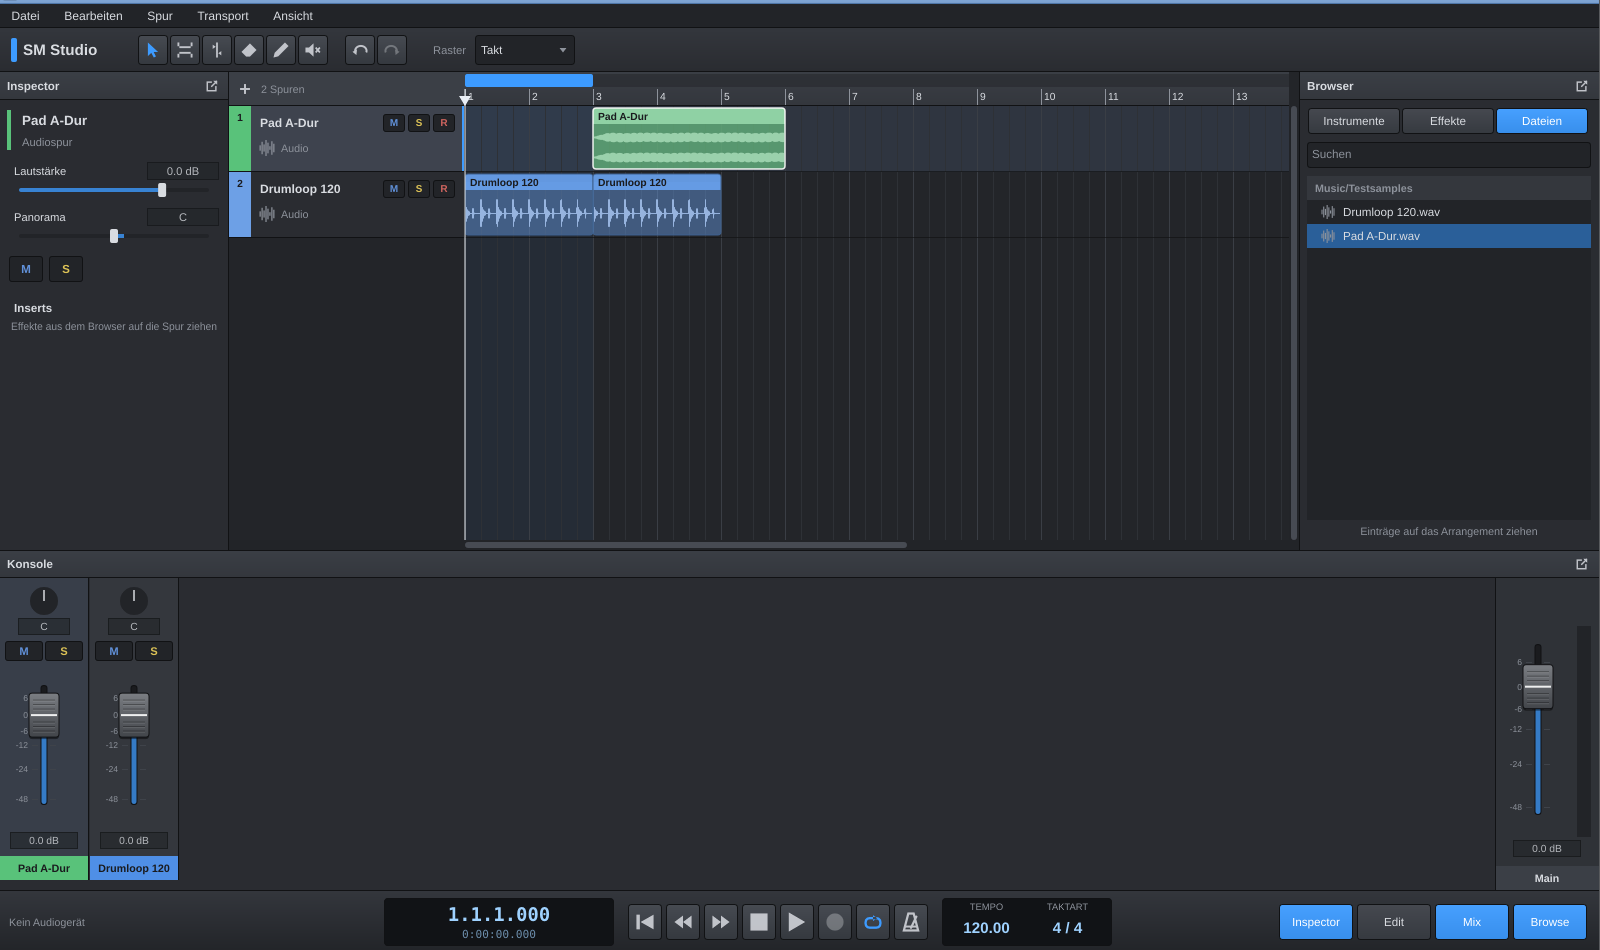
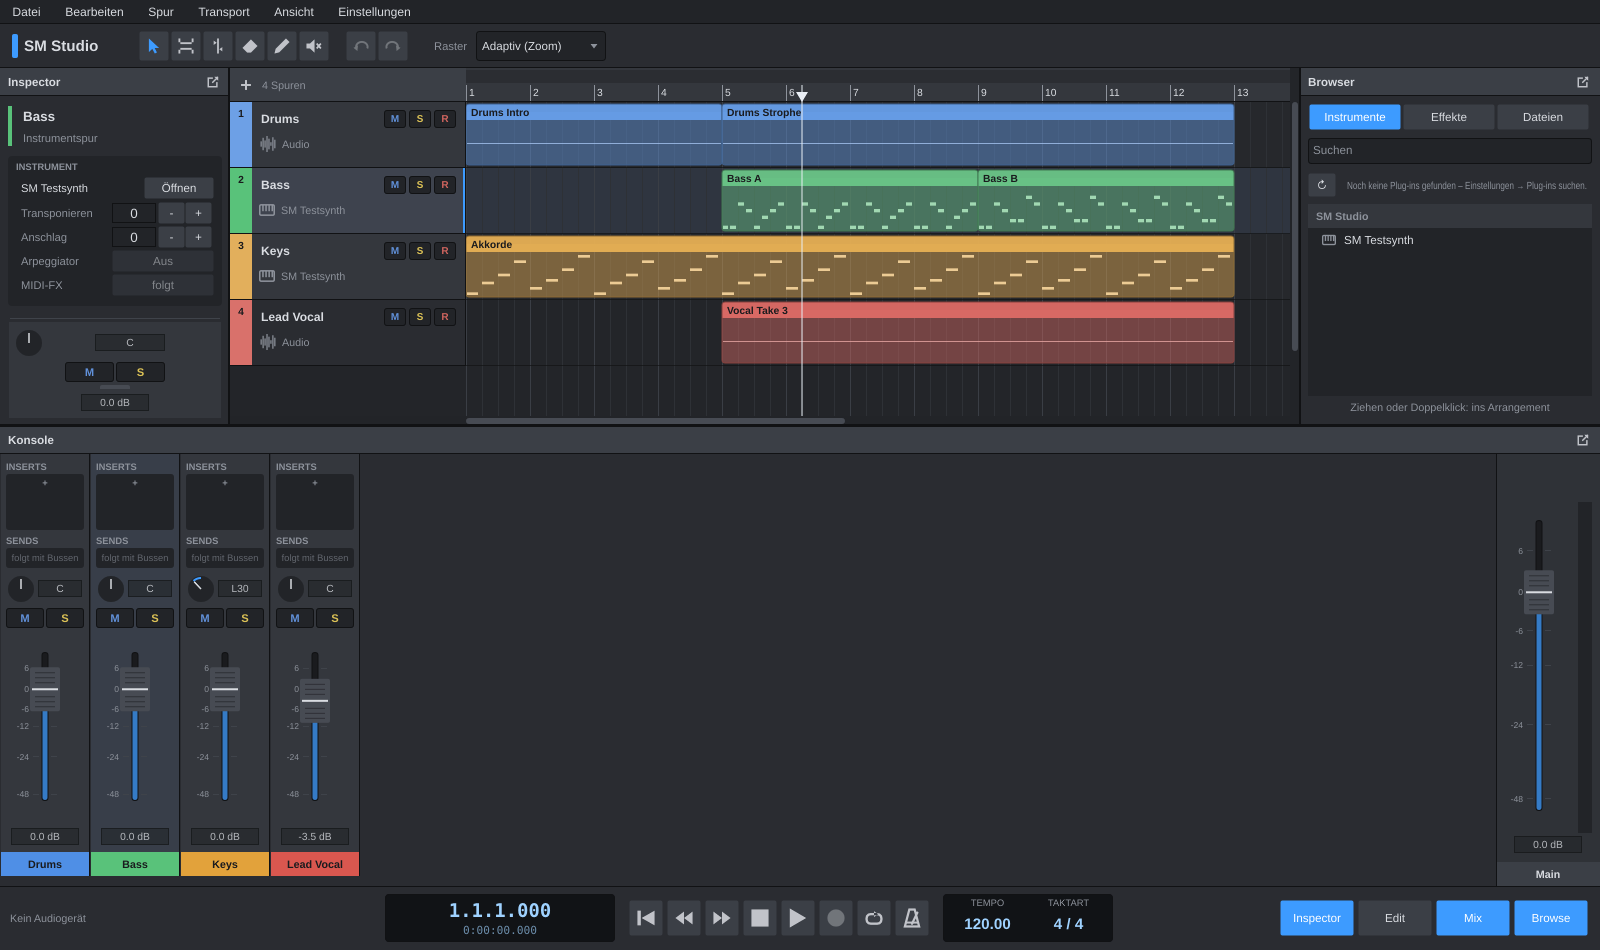
Flaches Design: alle Farbverläufe und Schatten entfernt
- Knöpfe, Icon-Knöpfe, Panel-Köpfe, Werkzeug- und Transportleiste, Lineal:
  einfarbige Flächen ohne Verlauf/Rahmen
- Fader-Kappe flach (ohne Schatten/Bevel), Pegelanzeige in flachen Zonen
  (grün/gelb/rot) statt Verlauf
- Eigene flache Reiter (Einstellungen)
- CLAUDE.md: Design-Regel „flach, keine Verläufe“

Claude-Session: https://claude.ai/code/session_01G1Snz2j6udqzPPveGnZnQZ

diff --git a/src/app/ui/Theme.cpp b/src/app/ui/Theme.cpp
@@ -387,10 +387,8 @@ void LookAndFeel::drawButtonBackground (juce::Graphics& g, juce::Button& b, cons
     else if (highlighted)
         base = base.brighter (0.12f);
 
-    g.setGradientFill (juce::ColourGradient (base.brighter (0.06f), 0, r.getY(), base.darker (0.08f), 0, r.getBottom(), false));
-    g.fillRoundedRectangle (r, 3.0f);
-    g.setColour (colours::border);
-    g.drawRoundedRectangle (r, 3.0f, 1.0f);
+    g.setColour (base); // flat, no gradient
+    g.fillRoundedRectangle (r, 2.0f);
 }
 
 void LookAndFeel::drawButtonText (juce::Graphics& g, juce::TextButton& b, bool, bool)
@@ -454,32 +452,20 @@ void LookAndFeel::drawLinearSlider (juce::Graphics& g, int x, int y, int w, int 
         auto cap = juce::Rectangle<float> (capW, faderCapHeight).withCentre ({ cx, pos });
         const bool active = s.isMouseOverOrDragging();
 
-        g.setColour (juce::Colours::black.withAlpha (0.45f));
-        g.fillRoundedRectangle (cap.translated (0.0f, 2.0f), 3.0f);
+        // flat cap (no shadow, no gradient) with thin grip lines and a centre line
+        g.setColour (active ? colours::headerLight.brighter (0.15f) : colours::headerLight);
+        g.fillRoundedRectangle (cap, 2.0f);
 
-        auto body = colours::headerLight.brighter (active ? 0.25f : 0.12f);
-        g.setGradientFill (juce::ColourGradient (body.brighter (0.25f), 0, cap.getY(),
-                                                 body.darker (0.35f), 0, cap.getBottom(), false));
-        g.fillRoundedRectangle (cap, 3.0f);
-
-        // grip ridges above and below the centre line
+        g.setColour (colours::panelDark.withAlpha (0.7f));
         for (int i = 1; i <= 3; ++i)
         {
-            const auto off = (float) i * 4.5f + 2.0f;
-            g.setColour (juce::Colours::black.withAlpha (0.35f));
-            g.fillRect (cap.getX() + 4.0f, pos - off, capW - 8.0f, 1.0f);
-            g.fillRect (cap.getX() + 4.0f, pos + off, capW - 8.0f, 1.0f);
-            g.setColour (juce::Colours::white.withAlpha (0.12f));
-            g.fillRect (cap.getX() + 4.0f, pos - off + 1.0f, capW - 8.0f, 1.0f);
-            g.fillRect (cap.getX() + 4.0f, pos + off + 1.0f, capW - 8.0f, 1.0f);
+            const auto off = (float) i * 5.0f + 2.0f;
+            g.fillRect (cap.getX() + 5.0f, pos - off, capW - 10.0f, 1.0f);
+            g.fillRect (cap.getX() + 5.0f, pos + off, capW - 10.0f, 1.0f);
         }
 
-        // centre line marks the exact value
-        g.setColour (active ? colours::accent.brighter (0.3f) : juce::Colours::white.withAlpha (0.9f));
+        g.setColour (active ? colours::accent : colours::text);
         g.fillRect (cap.getX() + 2.0f, pos - 1.0f, capW - 4.0f, 2.0f);
-
-        g.setColour (colours::border);
-        g.drawRoundedRectangle (cap, 3.0f, 1.0f);
     }
     else
     {
@@ -536,6 +522,34 @@ void LookAndFeel::drawRotarySlider (juce::Graphics& g, int x, int y, int w, int 
     g.setColour (colours::text);
     g.drawLine (juce::Line<float> (centre, centre.getPointOnCircumference (radius - 3, angle)), 1.5f);
 }
+
+int LookAndFeel::getTabButtonBestWidth (juce::TabBarButton& b, int depth)
+{
+    return juce::jmax (depth * 2, (int) juce::GlyphArrangement::getStringWidth (juce::Font (font (14.0f)), b.getButtonText()) + 28);
+}
+
+void LookAndFeel::drawTabButton (juce::TabBarButton& b, juce::Graphics& g, bool isMouseOver, bool)
+{
+    const bool active = b.isFrontTab();
+    auto r = b.getActiveArea().toFloat();
+    g.setColour (active ? colours::panel : (isMouseOver ? colours::panelLight : colours::panelDark));
+    g.fillRect (r);
+    if (active)
+    {
+        g.setColour (colours::accent);
+        g.fillRect (r.removeFromBottom (2.0f));
+    }
+    g.setColour (active ? colours::text : colours::textDim);
+    g.setFont (font (14.0f));
+    g.drawText (b.getButtonText(), b.getTextArea(), juce::Justification::centred, true);
+}
+
+void LookAndFeel::drawTabbedButtonBarBackground (juce::TabbedButtonBar&, juce::Graphics& g)
+{
+    g.fillAll (colours::panelDark);
+}
+
+void LookAndFeel::drawTabAreaBehindFrontButton (juce::TabbedButtonBar&, juce::Graphics&, int, int) {}
 
 void LookAndFeel::drawComboBox (juce::Graphics& g, int w, int h, bool, int, int, int, int, juce::ComboBox& box)
 {
@@ -623,10 +637,8 @@ void IconButton::paintButton (juce::Graphics& g, bool highlighted, bool down)
         else if (highlighted)
             base = base.brighter (0.12f);
 
-        g.setGradientFill (juce::ColourGradient (base.brighter (0.07f), 0, r.getY(), base.darker (0.1f), 0, r.getBottom(), false));
-        g.fillRoundedRectangle (r, 3.0f);
-        g.setColour (colours::border);
-        g.drawRoundedRectangle (r, 3.0f, 1.0f);
+        g.setColour (base); // flat
+        g.fillRoundedRectangle (r, 2.0f);
     }
     else if (highlighted || down)
     {
@@ -691,7 +703,7 @@ void makeValueLabel (juce::Label& l, float fontHeight)
 //==============================================================================
 void drawPanelHeader (juce::Graphics& g, juce::Rectangle<int> area, const juce::String& title)
 {
-    g.setGradientFill (juce::ColourGradient (colours::header, 0, (float) area.getY(), colours::panelLight, 0, (float) area.getBottom(), false));
+    g.setColour (colours::header); // flat
     g.fillRect (area);
     g.setColour (colours::border);
     g.drawHorizontalLine (area.getBottom() - 1, (float) area.getX(), (float) area.getRight());

diff --git a/src/app/ui/Panels.cpp b/src/app/ui/Panels.cpp
@@ -1046,9 +1046,21 @@ public:
                                  .translated ((float) ch * ((float) meterArea.getWidth() / 2.0f + 1.0f), 0.0f);
             const auto db = juce::Decibels::gainToDecibels (levels[ch], -60.0f);
             const auto prop = juce::jlimit (0.0f, 1.0f, (db + 60.0f) / 66.0f);
-            auto fill = bar.withTop (bar.getBottom() - bar.getHeight() * prop);
-            g.setGradientFill (juce::ColourGradient (colours::play, 0, bar.getBottom(), colours::record, 0, bar.getY(), false));
-            g.fillRect (fill);
+            // flat segments: green up to -12 dB, yellow up to -3 dB, red above
+            auto yFor = [&] (float dB) { return bar.getBottom() - bar.getHeight() * juce::jlimit (0.0f, 1.0f, (dB + 60.0f) / 66.0f); };
+            const auto top = bar.getBottom() - bar.getHeight() * prop;
+            const std::tuple<float, float, juce::Colour> zones[] = {
+                { -60.0f, -12.0f, colours::play }, { -12.0f, -3.0f, colours::solo }, { -3.0f, 6.0f, colours::record }
+            };
+            for (auto& [from, to, colour] : zones)
+            {
+                const auto zoneTop = std::max (top, yFor (to)), zoneBottom = yFor (from);
+                if (zoneTop < zoneBottom)
+                {
+                    g.setColour (colour);
+                    g.fillRect (juce::Rectangle<float>::leftTopRightBottom (bar.getX(), zoneTop, bar.getRight(), zoneBottom));
+                }
+            }
         }
 
         g.setColour (colours::border);

diff --git a/src/app/ui/Theme.h b/src/app/ui/Theme.h
@@ -98,6 +98,11 @@ public:
     void drawRotarySlider (juce::Graphics&, int x, int y, int w, int h, float pos,
                            float startAngle, float endAngle, juce::Slider&) override;
 
+    int getTabButtonBestWidth (juce::TabBarButton&, int tabDepth) override;
+    void drawTabButton (juce::TabBarButton&, juce::Graphics&, bool isMouseOver, bool isMouseDown) override;
+    void drawTabbedButtonBarBackground (juce::TabbedButtonBar&, juce::Graphics&) override;
+    void drawTabAreaBehindFrontButton (juce::TabbedButtonBar&, juce::Graphics&, int, int) override;
+
     void drawComboBox (juce::Graphics&, int w, int h, bool down, int bx, int by, int bw, int bh, juce::ComboBox&) override;
     juce::Font getComboBoxFont (juce::ComboBox&) override;
     juce::Font getPopupMenuFont() override;

diff --git a/src/app/ui/Bars.cpp b/src/app/ui/Bars.cpp
@@ -90,8 +90,7 @@ void Toolbar::valueChanged (juce::Value&)
 
 void Toolbar::paint (juce::Graphics& g)
 {
-    g.setGradientFill (juce::ColourGradient (colours::panelLight, 0, 0, colours::panel, 0, (float) getHeight(), false));
-    g.fillAll();
+    g.fillAll (colours::panel);
 
     // wordmark
     g.setColour (colours::accent);
@@ -255,8 +254,7 @@ void TransportBar::timerCallback()
 
 void TransportBar::paint (juce::Graphics& g)
 {
-    g.setGradientFill (juce::ColourGradient (colours::panelLight, 0, 0, colours::panelDark, 0, (float) getHeight(), false));
-    g.fillAll();
+    g.fillAll (colours::panel);
     g.setColour (colours::border);
     g.drawHorizontalLine (0, 0.0f, (float) getWidth());
 

diff --git a/src/app/ui/ArrangeView.cpp b/src/app/ui/ArrangeView.cpp
@@ -575,7 +575,7 @@ void ArrangeView::paintRuler (juce::Graphics& g, juce::Rectangle<int> area)
     g.saveState();
     g.reduceClipRegion (area);
 
-    g.setGradientFill (juce::ColourGradient (colours::header, 0, 0, colours::panelLight, 0, (float) area.getBottom(), false));
+    g.setColour (colours::panelLight);
     g.fillRect (area);
 
     // loop range in the upper half

diff --git a/CLAUDE.md b/CLAUDE.md
@@ -27,4 +27,6 @@ Den Screenshot nach UI-Änderungen immer ansehen. `docs/screenshot.png` bei sich
 - Neue Core-Logik bekommt Unit-Tests in `tests/`.
 - Kein Code aus Lemon Studio oder anderen GPL-Projekten übernehmen (nur Konzepte nachschlagen).
 - Keine Grafiken, Logos oder Namen von PreSonus/Studio One verwenden.
+- Design: komplett FLACH (Vorbild Ableton) – keine Farbverläufe, keine Schatten, keine Bevel-Effekte,
+  auch nicht bei Symbolen. Farben nur aus `theme::colours` (Farbschemata umschaltbar).
 - Größere Etappen auf eigenem Branch + Pull Request; Roadmap-Häkchen setzen.
